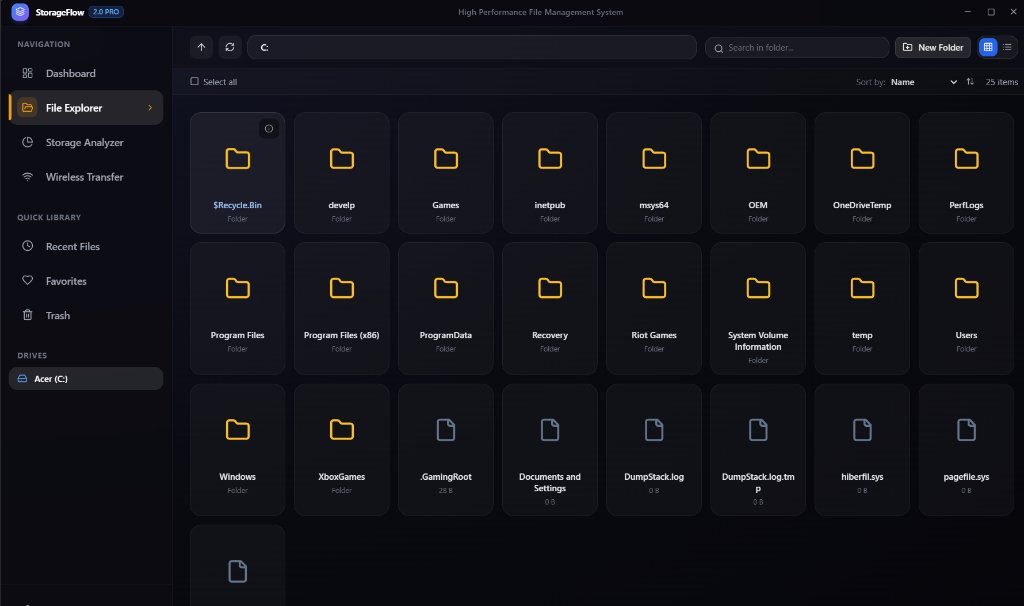
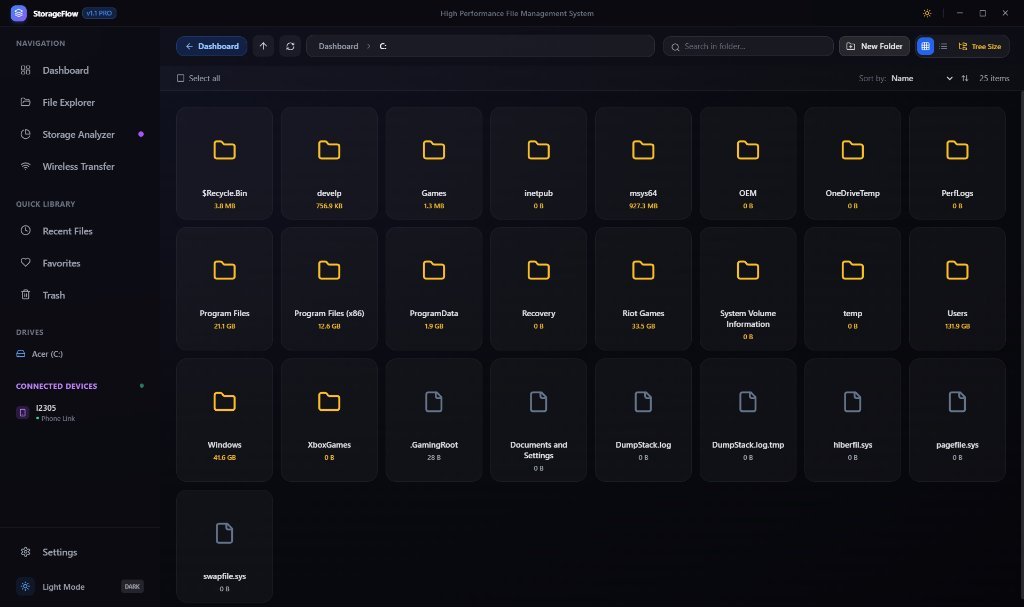
Update landing page website with official real app screenshots

diff --git a/docs/index.html b/docs/index.html
@@ -197,7 +197,7 @@
             <div class="text-[11px] text-gray-500 font-mono">Offline • Windows 11 Fluent Glass</div>
           </div>
           <!-- Hero Image -->
-          <img src="screenshots/dashboard.png" alt="StorageFlow Dashboard" class="w-full h-auto object-cover">
+          <img src="screenshots/dashboard.jpg" alt="StorageFlow Dashboard" class="w-full h-auto object-cover">
         </div>
       </div>
     </div>
@@ -328,23 +328,20 @@
           Dashboard
         </button>
         <button onclick="switchTab('explorer')" id="tab-explorer" class="tab-btn px-5 py-2.5 rounded-xl text-xs font-bold transition-all glass-card hover:bg-white/10 text-gray-300">
-          File Explorer
+          File Explorer (Calculated Sizes)
         </button>
         <button onclick="switchTab('analyzer')" id="tab-analyzer" class="tab-btn px-5 py-2.5 rounded-xl text-xs font-bold transition-all glass-card hover:bg-white/10 text-gray-300">
-          Storage Breakdown
-        </button>
-        <button onclick="switchTab('devices')" id="tab-devices" class="tab-btn px-5 py-2.5 rounded-xl text-xs font-bold transition-all glass-card hover:bg-white/10 text-gray-300">
-          Portable Devices
+          Storage Breakdown Tree
         </button>
         <button onclick="switchTab('wireless')" id="tab-wireless" class="tab-btn px-5 py-2.5 rounded-xl text-xs font-bold transition-all glass-card hover:bg-white/10 text-gray-300">
-          Wireless Sharing
+          Wireless Direct Sharing
         </button>
       </div>
 
       <!-- Screenshot Display Box -->
       <div class="relative rounded-3xl p-3 glass-card border-white/15 glow-blue overflow-hidden max-w-5xl mx-auto">
         <div id="screenshot-container" class="rounded-2xl overflow-hidden bg-black/60 aspect-[16/10] flex items-center justify-center">
-          <img id="active-screenshot" src="screenshots/dashboard.png" alt="StorageFlow Screenshot" class="w-full h-full object-contain transition-opacity duration-300">
+          <img id="active-screenshot" src="screenshots/dashboard.jpg" alt="StorageFlow Screenshot" class="w-full h-full object-contain transition-opacity duration-300">
         </div>
         <div id="active-caption" class="p-4 text-center text-xs font-medium text-gray-400 border-t border-white/5 mt-2">
           Real-time system telemetry, connected internal drives, battery metrics, and quick category breakdown.
@@ -494,24 +491,20 @@
   <script>
     const screenshots = {
       dashboard: {
-        src: 'screenshots/dashboard.png',
-        caption: 'Real-time system telemetry, connected internal drives, battery metrics, and quick category breakdown.'
+        src: 'screenshots/dashboard.jpg',
+        caption: 'StorageFlow 2.0 Dashboard — System overview, real-time drive metrics, connected Android phone, and quick category breakdown.'
       },
       explorer: {
         src: 'screenshots/explorer.jpg',
-        caption: 'High-speed File Explorer with instant directory size calculations, thumbnail previews, and folder actions.'
+        caption: 'High-speed File Explorer — Real-time folder size calculations (Windows 41.6 GB, Riot Games 33.5 GB, Program Files 21.1 GB, Users 131.9 GB).'
       },
       analyzer: {
-        src: 'screenshots/analyzer.png',
-        caption: 'Storage Analyzer visualizes space usage with deep hierarchical breakdowns to uncover space hogs.'
-      },
-      devices: {
-        src: 'screenshots/devices.jpg',
-        caption: 'Seamless Universal Connected Devices tab for Android phones, tablets, and MTP portable storage.'
+        src: 'screenshots/analyzer.jpg',
+        caption: 'Storage Analyzer — Deep recursive disk inspection (128.9 GB analyzed across 405,900 files and 170,725 subdirectories).'
       },
       wireless: {
         src: 'screenshots/wireless.jpg',
-        caption: 'High-speed local peer-to-peer Wireless Transfer via instant QR code scanning without cables or cloud.'
+        caption: 'Wireless Direct Transfer — Seamless high-speed local Wi-Fi transfer between PC and Android without internet or cloud.'
       }
     };
 

diff --git a/website/index.html b/website/index.html
@@ -197,7 +197,7 @@
             <div class="text-[11px] text-gray-500 font-mono">Offline • Windows 11 Fluent Glass</div>
           </div>
           <!-- Hero Image -->
-          <img src="screenshots/dashboard.png" alt="StorageFlow Dashboard" class="w-full h-auto object-cover">
+          <img src="screenshots/dashboard.jpg" alt="StorageFlow Dashboard" class="w-full h-auto object-cover">
         </div>
       </div>
     </div>
@@ -328,23 +328,20 @@
           Dashboard
         </button>
         <button onclick="switchTab('explorer')" id="tab-explorer" class="tab-btn px-5 py-2.5 rounded-xl text-xs font-bold transition-all glass-card hover:bg-white/10 text-gray-300">
-          File Explorer
+          File Explorer (Calculated Sizes)
         </button>
         <button onclick="switchTab('analyzer')" id="tab-analyzer" class="tab-btn px-5 py-2.5 rounded-xl text-xs font-bold transition-all glass-card hover:bg-white/10 text-gray-300">
-          Storage Breakdown
-        </button>
-        <button onclick="switchTab('devices')" id="tab-devices" class="tab-btn px-5 py-2.5 rounded-xl text-xs font-bold transition-all glass-card hover:bg-white/10 text-gray-300">
-          Portable Devices
+          Storage Breakdown Tree
         </button>
         <button onclick="switchTab('wireless')" id="tab-wireless" class="tab-btn px-5 py-2.5 rounded-xl text-xs font-bold transition-all glass-card hover:bg-white/10 text-gray-300">
-          Wireless Sharing
+          Wireless Direct Sharing
         </button>
       </div>
 
       <!-- Screenshot Display Box -->
       <div class="relative rounded-3xl p-3 glass-card border-white/15 glow-blue overflow-hidden max-w-5xl mx-auto">
         <div id="screenshot-container" class="rounded-2xl overflow-hidden bg-black/60 aspect-[16/10] flex items-center justify-center">
-          <img id="active-screenshot" src="screenshots/dashboard.png" alt="StorageFlow Screenshot" class="w-full h-full object-contain transition-opacity duration-300">
+          <img id="active-screenshot" src="screenshots/dashboard.jpg" alt="StorageFlow Screenshot" class="w-full h-full object-contain transition-opacity duration-300">
         </div>
         <div id="active-caption" class="p-4 text-center text-xs font-medium text-gray-400 border-t border-white/5 mt-2">
           Real-time system telemetry, connected internal drives, battery metrics, and quick category breakdown.
@@ -494,24 +491,20 @@
   <script>
     const screenshots = {
       dashboard: {
-        src: 'screenshots/dashboard.png',
-        caption: 'Real-time system telemetry, connected internal drives, battery metrics, and quick category breakdown.'
+        src: 'screenshots/dashboard.jpg',
+        caption: 'StorageFlow 2.0 Dashboard — System overview, real-time drive metrics, connected Android phone, and quick category breakdown.'
       },
       explorer: {
         src: 'screenshots/explorer.jpg',
-        caption: 'High-speed File Explorer with instant directory size calculations, thumbnail previews, and folder actions.'
+        caption: 'High-speed File Explorer — Real-time folder size calculations (Windows 41.6 GB, Riot Games 33.5 GB, Program Files 21.1 GB, Users 131.9 GB).'
       },
       analyzer: {
-        src: 'screenshots/analyzer.png',
-        caption: 'Storage Analyzer visualizes space usage with deep hierarchical breakdowns to uncover space hogs.'
-      },
-      devices: {
-        src: 'screenshots/devices.jpg',
-        caption: 'Seamless Universal Connected Devices tab for Android phones, tablets, and MTP portable storage.'
+        src: 'screenshots/analyzer.jpg',
+        caption: 'Storage Analyzer — Deep recursive disk inspection (128.9 GB analyzed across 405,900 files and 170,725 subdirectories).'
       },
       wireless: {
         src: 'screenshots/wireless.jpg',
-        caption: 'High-speed local peer-to-peer Wireless Transfer via instant QR code scanning without cables or cloud.'
+        caption: 'Wireless Direct Transfer — Seamless high-speed local Wi-Fi transfer between PC and Android without internet or cloud.'
       }
     };
 
